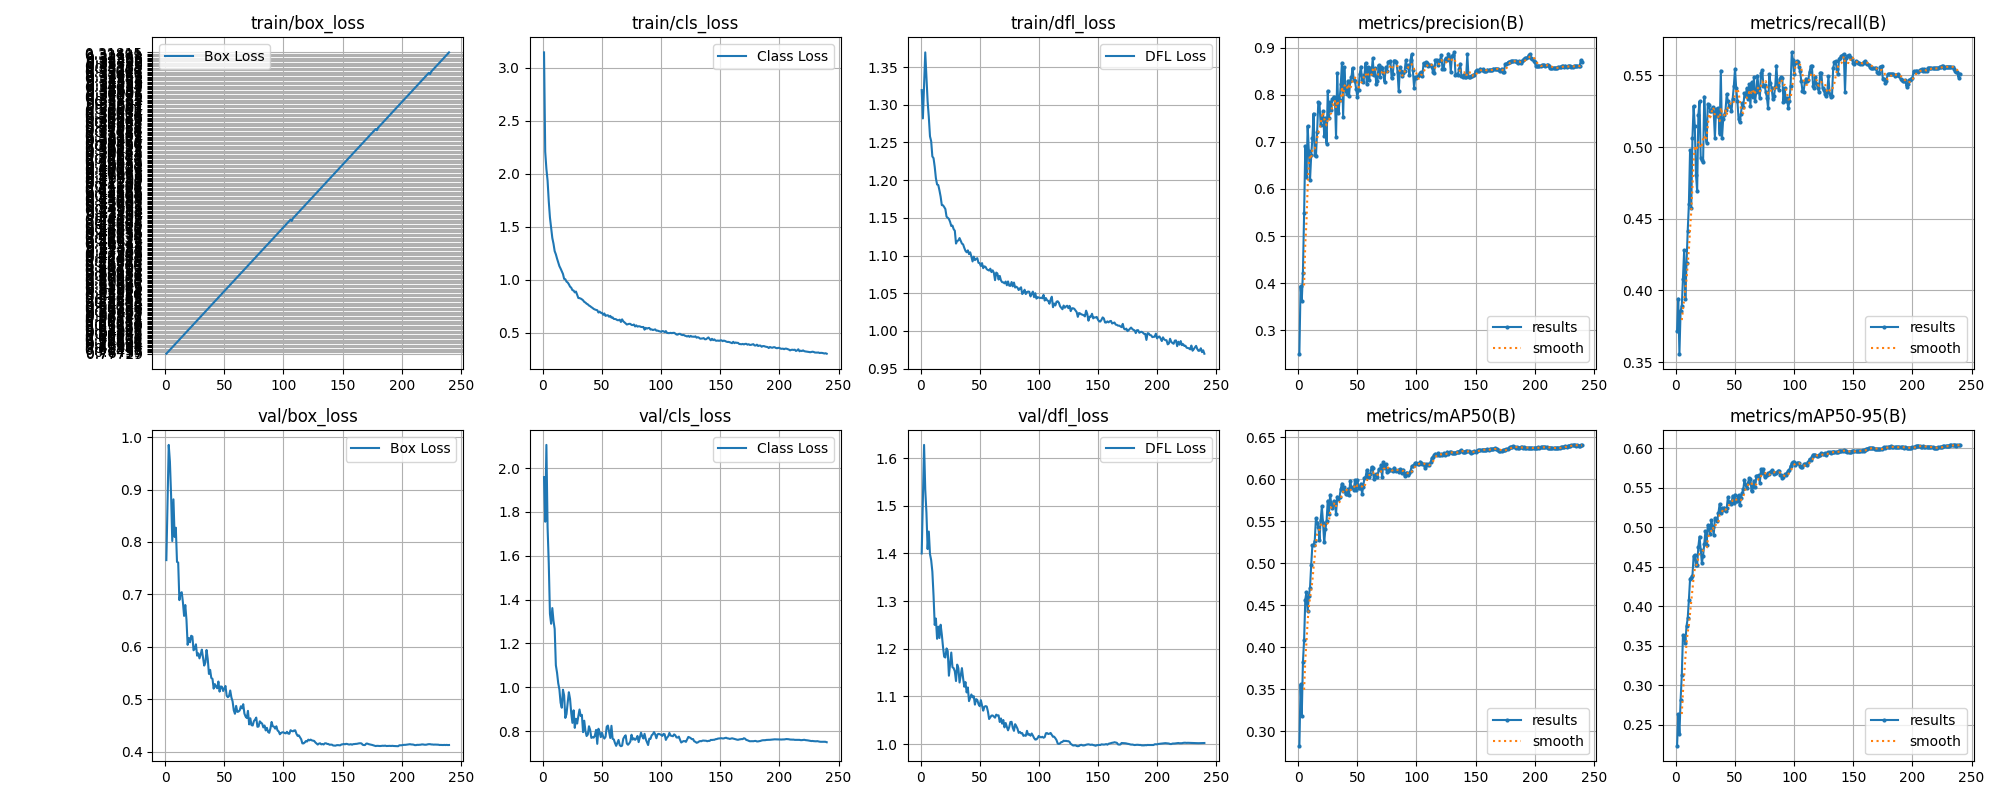
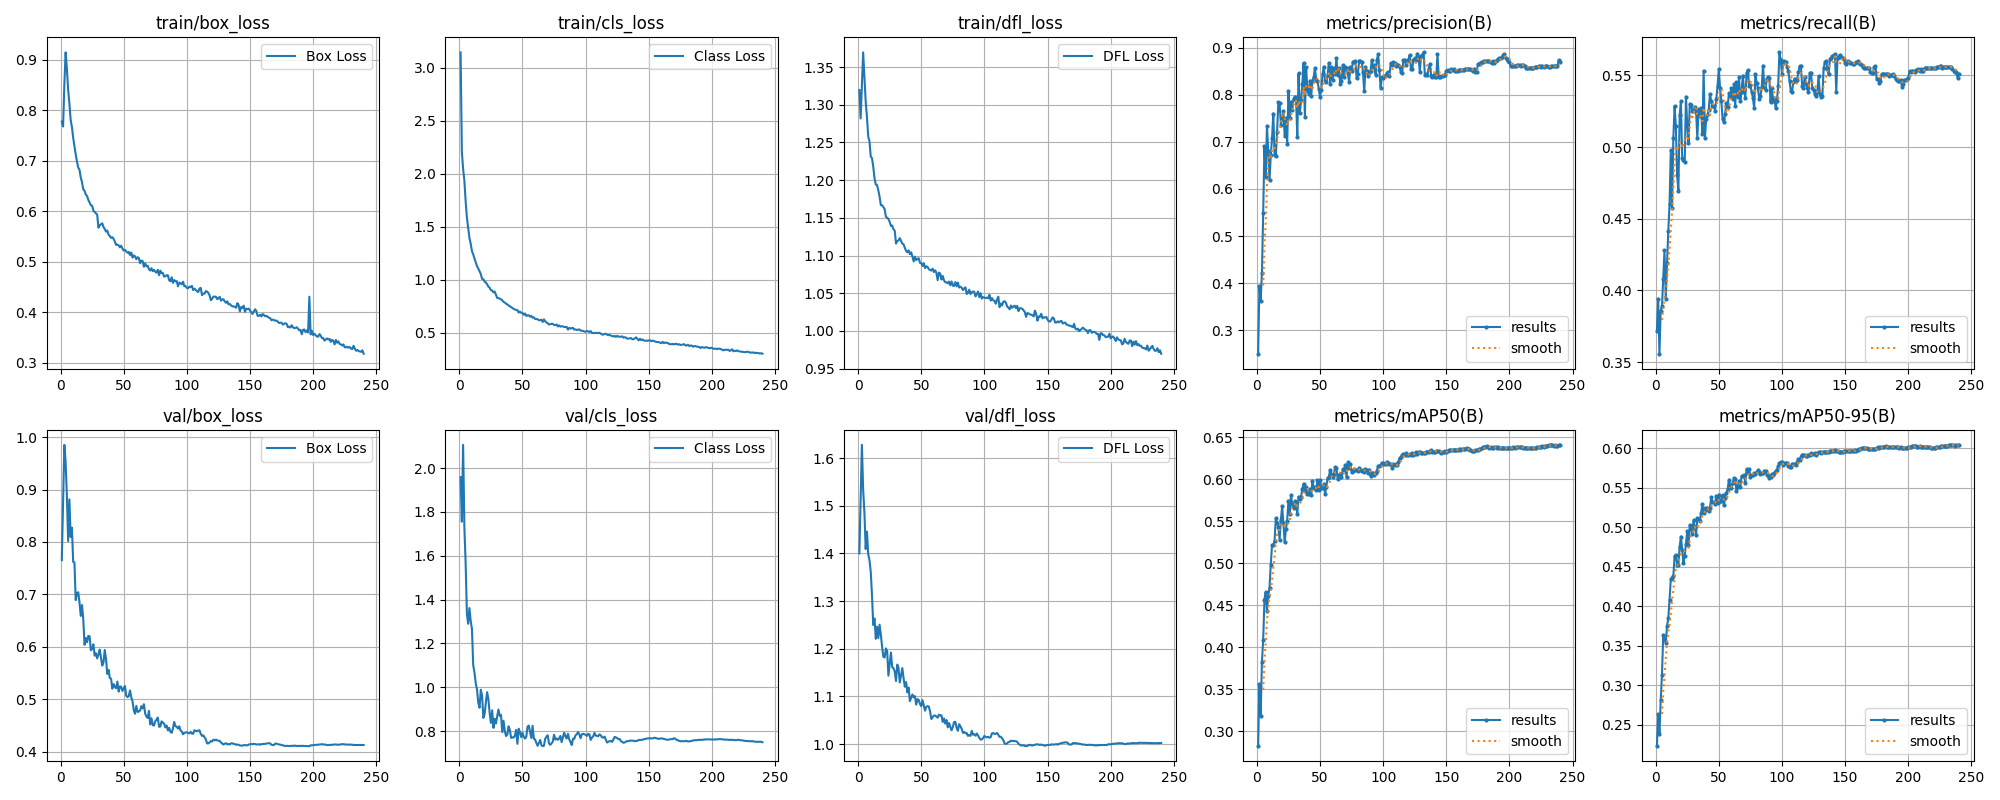
asd 240 epochs

diff --git a/results.py b/results.py
@@ -1,11 +1,27 @@
 import pandas as pd
 import matplotlib.pyplot as plt
+import numpy as np
 
 # Load the results.csv file
 results_df = pd.read_csv('runs/detect/train/results.csv')
 
 # Strip any leading/trailing spaces in the column names
 results_df.columns = results_df.columns.str.strip()
+
+# Convert 'train/box_loss' column to numeric, forcing errors to NaN
+results_df['train/box_loss'] = pd.to_numeric(results_df['train/box_loss'], errors='coerce')
+
+# Replace inf and NaN values with the median of the column
+median_value = results_df['train/box_loss'].median()
+results_df['train/box_loss'] = results_df['train/box_loss'].replace([np.inf, -np.inf], np.nan)
+results_df['train/box_loss'].fillna(median_value, inplace=True)
+
+# Check the max and min again to ensure that inf and invalid values are handled
+print("Max value in train/box_loss after cleaning:", results_df['train/box_loss'].max())
+print("Min value in train/box_loss after cleaning:", results_df['train/box_loss'].min())
+
+# Now, you can safely clip the values if needed
+results_df['train/box_loss'] = results_df['train/box_loss'].clip(upper=1.0)
 
 # Define a smoothing function using a rolling window
 def smooth(data, window_size=5):
